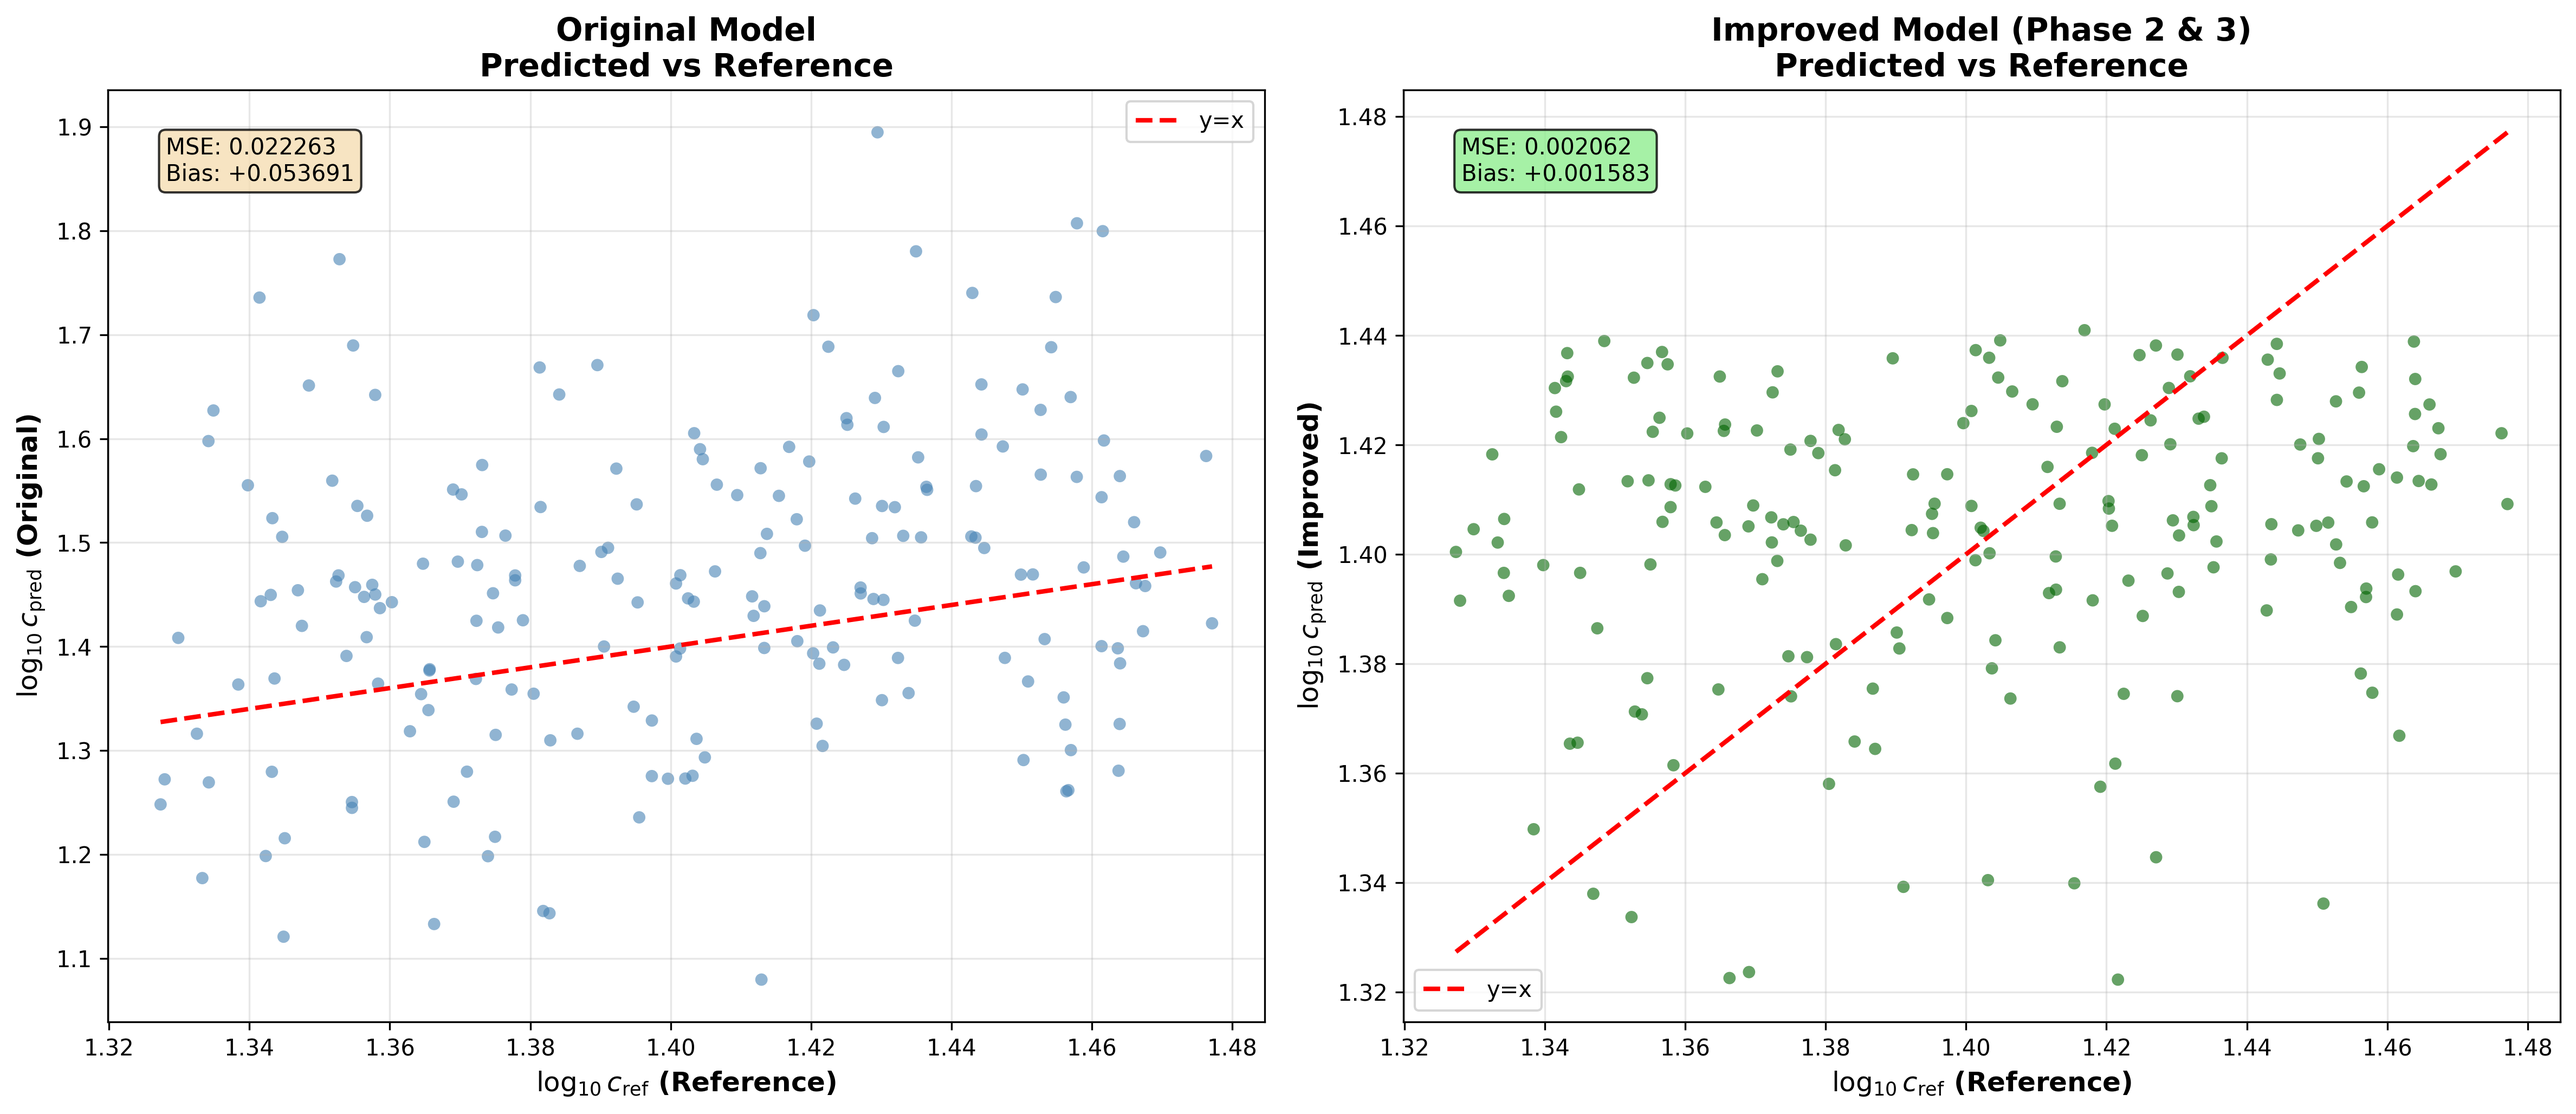
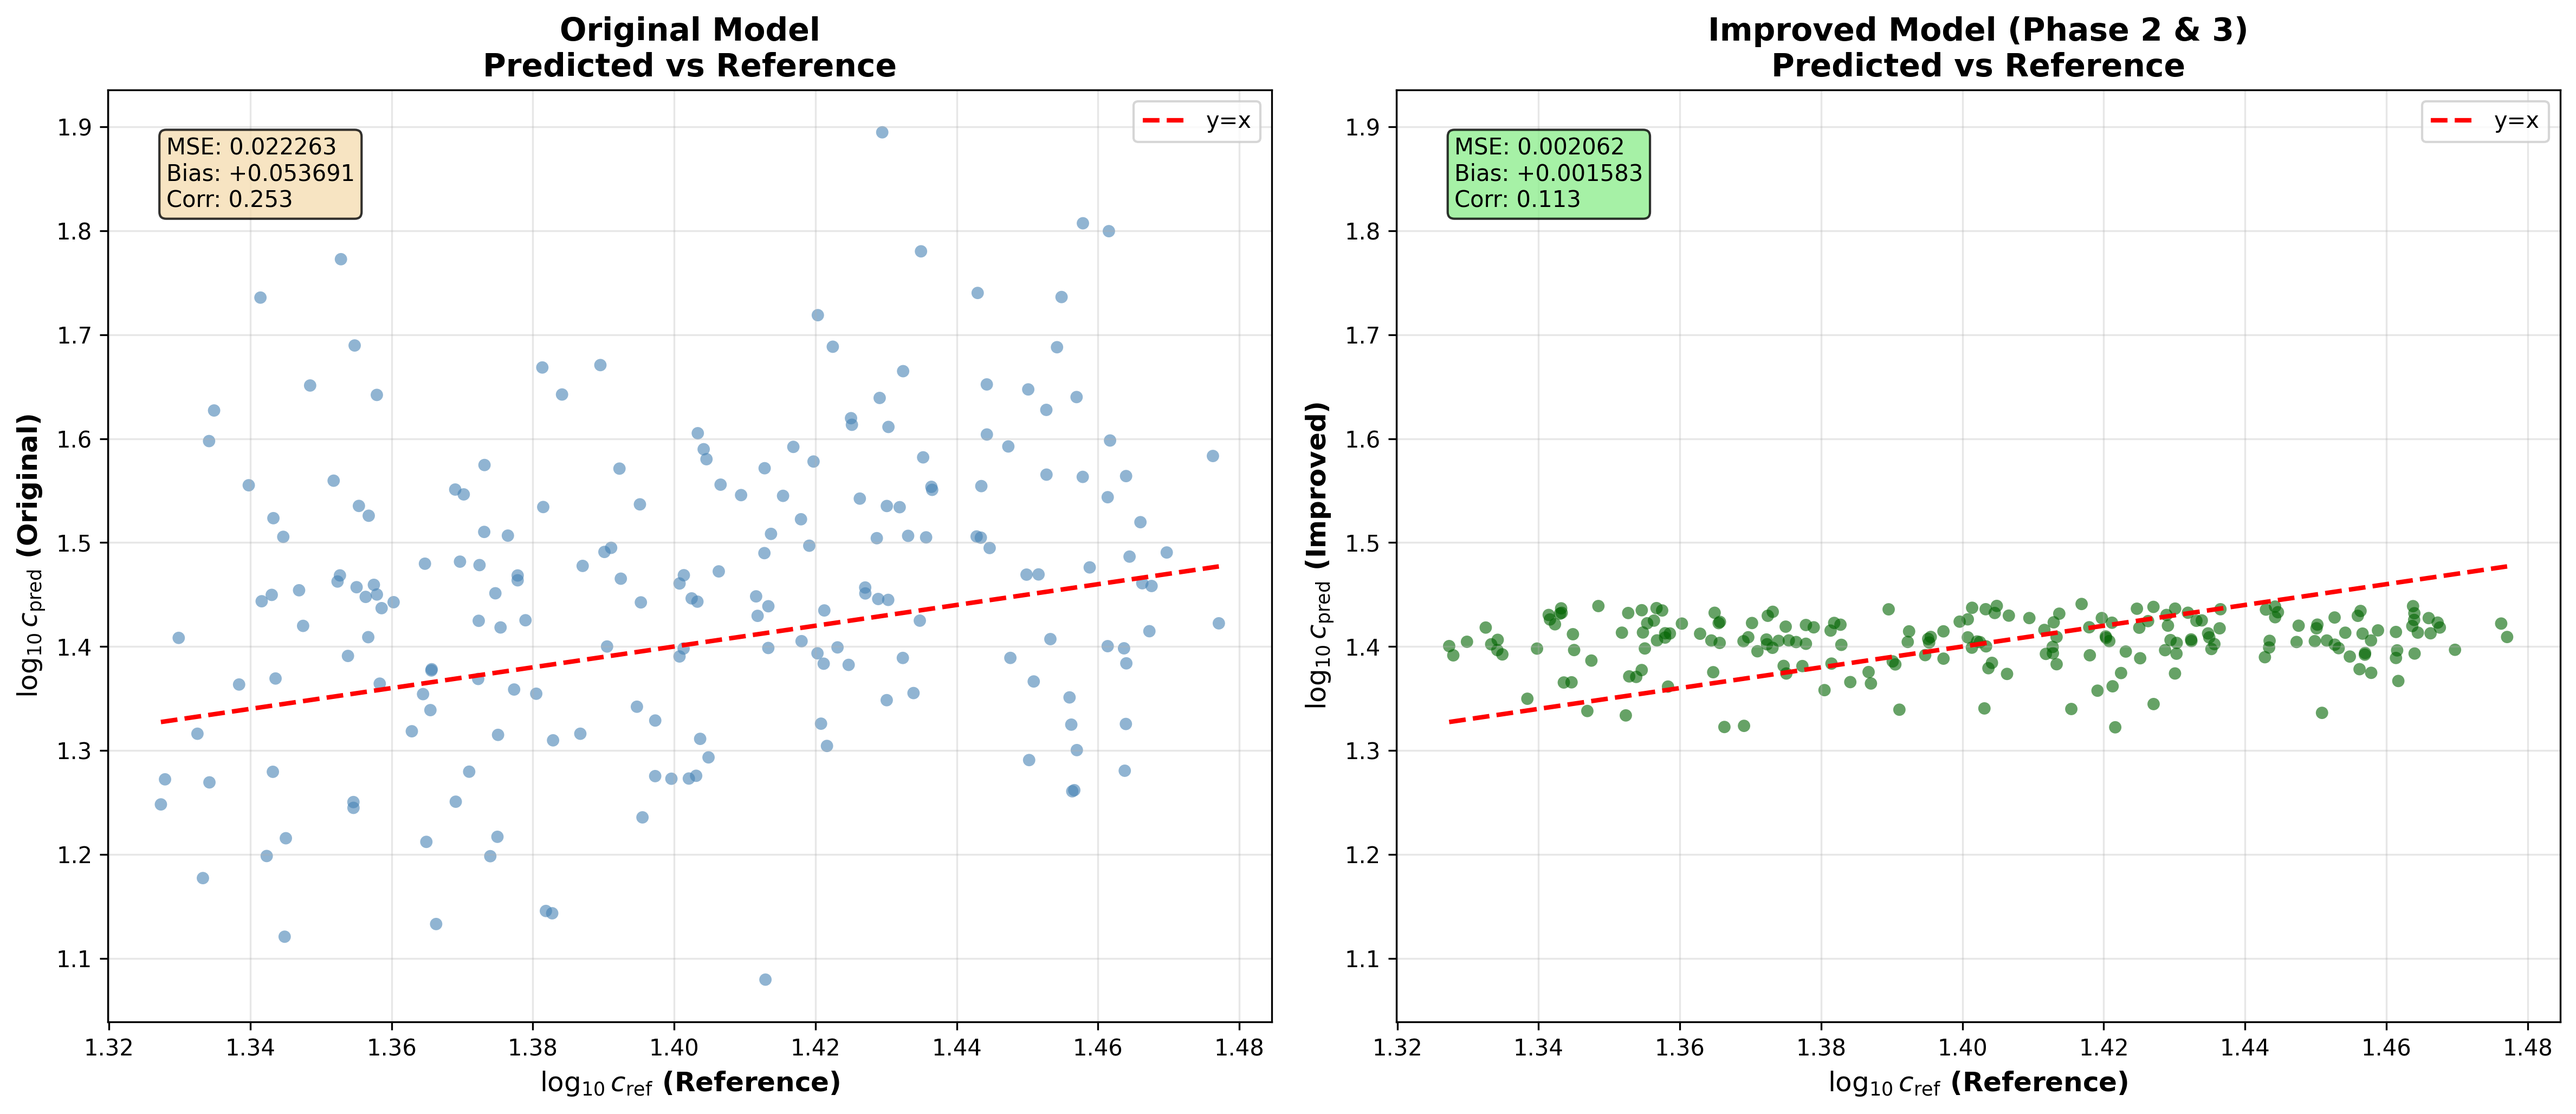
Fix comparison plots: add correlation, align axes, improve visualization

diff --git a/src/compare_models_validation.py b/src/compare_models_validation.py
@@ -24,11 +24,37 @@ print("\n1. Loading data...")
 df_original = pd.read_csv(os.path.join(data_dir, 'concentration_validation.csv'))
 df_improved = pd.read_csv(os.path.join(data_dir, 'sdss_predictions_with_improved.csv'))
 
-# Extract values
-log10_m_orig = df_original['log10_M_halo'].values
-log10_c_ref = df_original['log10_c_ref'].values
-log10_c_pred_orig = df_original['log10_c_pred'].values
-log10_c_pred_improved = df_improved['log10_c_pred_improved'].values
+# Ensure proper alignment - merge on common identifiers (ra, dec, or use index)
+# Check if we can align by ra/dec or use index alignment
+if len(df_original) == len(df_improved):
+    # Try to align by ra/dec if available, otherwise use index
+    if 'ra' in df_original.columns and 'dec' in df_original.columns:
+        # Merge on ra/dec to ensure alignment
+        df_merged = pd.merge(
+            df_original[['ra', 'dec', 'log10_M_halo', 'log10_c_pred', 'log10_c_ref']],
+            df_improved[['ra', 'dec', 'log10_c_pred_improved']],
+            on=['ra', 'dec'],
+            how='inner'
+        )
+        print(f"   ✓ Merged {len(df_merged)} galaxies on ra/dec")
+    else:
+        # Use index alignment
+        df_merged = df_original[['log10_M_halo', 'log10_c_pred', 'log10_c_ref']].copy()
+        df_merged['log10_c_pred_improved'] = df_improved['log10_c_pred_improved'].values
+        print(f"   ✓ Using index alignment for {len(df_merged)} galaxies")
+else:
+    print("   ⚠ Warning: Data lengths don't match!")
+    # Use shorter length
+    min_len = min(len(df_original), len(df_improved))
+    df_merged = df_original[['log10_M_halo', 'log10_c_pred', 'log10_c_ref']].iloc[:min_len].copy()
+    df_merged['log10_c_pred_improved'] = df_improved['log10_c_pred_improved'].values[:min_len]
+    print(f"   ⚠ Using first {min_len} galaxies")
+
+# Extract values from merged dataframe
+log10_m_orig = df_merged['log10_M_halo'].values
+log10_c_ref = df_merged['log10_c_ref'].values
+log10_c_pred_orig = df_merged['log10_c_pred'].values
+log10_c_pred_improved = df_merged['log10_c_pred_improved'].values
 
 # Calculate metrics
 mse_orig = np.mean((log10_c_pred_orig - log10_c_ref)**2)
@@ -64,7 +90,8 @@ ax1.set_ylabel(r'$\log_{10} c_{\mathrm{pred}}$ (Original)', fontsize=12, fontwei
 ax1.set_title('Original Model\nPredicted vs Reference', fontsize=14, fontweight='bold')
 ax1.grid(True, alpha=0.3)
 ax1.legend()
-ax1.text(0.05, 0.95, f'MSE: {mse_orig:.6f}\nBias: {bias_orig:+.6f}',
+corr_orig = np.corrcoef(log10_c_ref, log10_c_pred_orig)[0,1]
+ax1.text(0.05, 0.95, f'MSE: {mse_orig:.6f}\nBias: {bias_orig:+.6f}\nCorr: {corr_orig:.3f}',
          transform=ax1.transAxes, fontsize=10,
          verticalalignment='top', bbox=dict(boxstyle='round', facecolor='wheat', alpha=0.8))
 
@@ -73,12 +100,16 @@ ax2.scatter(log10_c_ref, log10_c_pred_improved, s=30, alpha=0.6, c='darkgreen', 
 ax2.plot([log10_c_ref.min(), log10_c_ref.max()], 
          [log10_c_ref.min(), log10_c_ref.max()], 
          'r--', linewidth=2, label='y=x')
+# Set same axis limits for fair comparison
+ax2.set_xlim(ax1.get_xlim())
+ax2.set_ylim(ax1.get_ylim())
 ax2.set_xlabel(r'$\log_{10} c_{\mathrm{ref}}$ (Reference)', fontsize=12, fontweight='bold')
 ax2.set_ylabel(r'$\log_{10} c_{\mathrm{pred}}$ (Improved)', fontsize=12, fontweight='bold')
 ax2.set_title('Improved Model (Phase 2 & 3)\nPredicted vs Reference', fontsize=14, fontweight='bold')
 ax2.grid(True, alpha=0.3)
 ax2.legend()
-ax2.text(0.05, 0.95, f'MSE: {mse_improved:.6f}\nBias: {bias_improved:+.6f}',
+corr_improved = np.corrcoef(log10_c_ref, log10_c_pred_improved)[0,1]
+ax2.text(0.05, 0.95, f'MSE: {mse_improved:.6f}\nBias: {bias_improved:+.6f}\nCorr: {corr_improved:.3f}',
          transform=ax2.transAxes, fontsize=10,
          verticalalignment='top', bbox=dict(boxstyle='round', facecolor='lightgreen', alpha=0.8))
 
